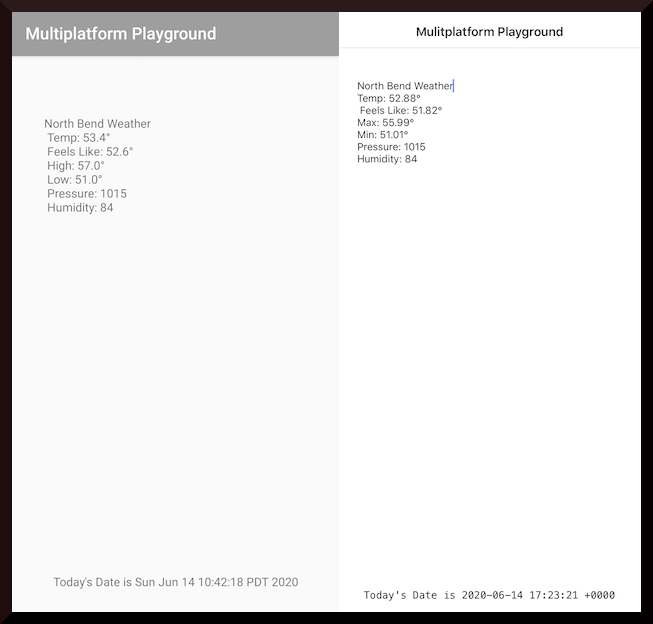
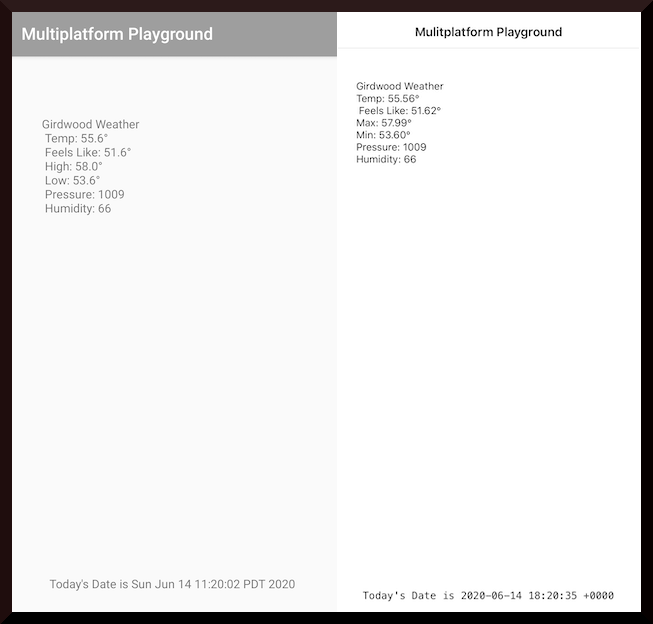
update location and screenshot

diff --git a/ios-app/ios-app/ViewController.swift b/ios-app/ios-app/ViewController.swift
@@ -28,7 +28,7 @@ class ViewController: UIViewController {
     
     func getWeather(apiKey: String) {
         api.getWeatherMain(
-            location: "47.492820,-121.760330",
+            location: "60.970734,-149.098876",
             apiKey: apiKey,
             success: { data in
                 self.parseResponse(response: data)
@@ -46,7 +46,7 @@ class ViewController: UIViewController {
         let pressure = response.pressure
         let humidity = response.humidity
         
-        let formatted = String(format: "North Bend Weather\nTemp: %.2f\(DEGREE)\n Feels Like: %.2f\(DEGREE)\nMax: %.2f\(DEGREE)\nMin: %.2f\(DEGREE)\nPressure: \(pressure)\nHumidity: \(humidity)",
+        let formatted = String(format: "Girdwood Weather\nTemp: %.2f\(DEGREE)\n Feels Like: %.2f\(DEGREE)\nMax: %.2f\(DEGREE)\nMin: %.2f\(DEGREE)\nPressure: \(pressure)\nHumidity: \(humidity)",
                                temp, feelsLikeTemp, tempMax, tempMin)
         
         weatherView.text = formatted

diff --git a/app/src/main/java/com/jdoneill/ktmultiplatform/ui/MainActivity.kt b/app/src/main/java/com/jdoneill/ktmultiplatform/ui/MainActivity.kt
@@ -43,7 +43,7 @@ class MainActivity : AppCompatActivity(), CoroutineScope {
 
     private fun getWeather(apiKey: String) {
         api.getWeatherMain(
-            location = "47.492820,-121.760330",
+            location = "60.970734,-149.098876",
             apiKey = apiKey,
             success = ::parseResponse,
             failure = ::handleError
@@ -52,7 +52,7 @@ class MainActivity : AppCompatActivity(), CoroutineScope {
 
     private fun parseResponse(response: Main) {
         launch(Main) {
-            val name = "North Bend Weather"
+            val name = "Girdwood Weather"
             val temp = response.temp
             val feelsLikeTemp = response.feels_like
             val tempMax = response.temp_max
